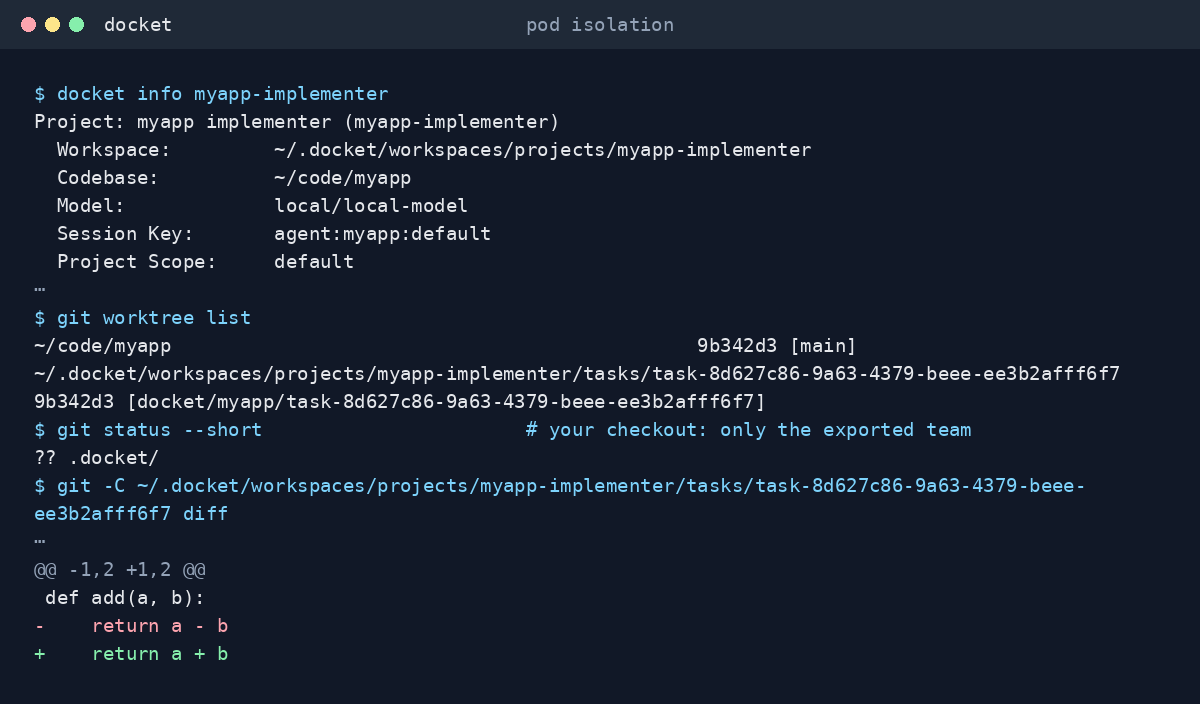
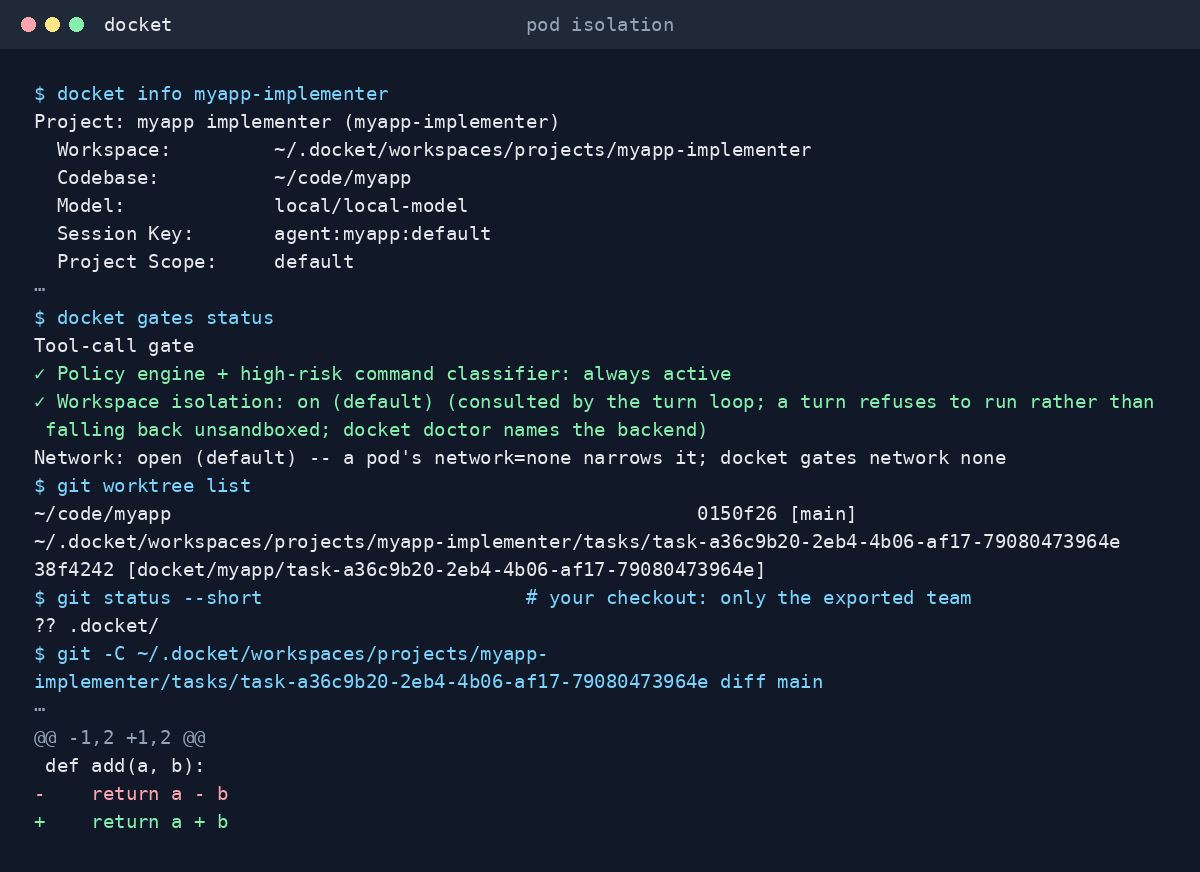
Docs: refresh the documentation screenshots from a 2026-10-05 capture
Re-captured the journey on current develop (after the consult-ask fix) with
the local model and transcribed it into the renderer, all scenes from one run.

- hero.gif: new task and trace ids and timestamps; the recipe now adds a
  security-review skill (5 changes); the exported tree is elided to fit; the
  run frame elides the vetter's bullet list and keeps APPROVE; the config
  explain frame lists the consult and skill tools and the audit chain
  verifies at 7 lines. The recipe path is shown as the shipped name.
- isolation.png: adds docket gates status, showing workspace isolation on by
  default, above the worktree facts; the fix is shown with diff main because
  the Implementer's change is committed on its task branch.
- governance.png: the Implementer's git push origin production parks the task
  as waiting_approval under high-risk-deploy; shows the tool.ask audit entry
  for bash and the trace denial with executed false, then audit verify.
- capture-doc-journey.sh: scene 3 also runs docket gates status and diffs
  against main; scene 4's task tells the Lead not to consult, so the push
  reaches the gate.
- docs/assets/README.md: capture date and scene table. README.md: alt text of
  isolation.png and governance.png match what they show.

diff --git a/scripts/render-doc-assets.py b/scripts/render-doc-assets.py
@@ -132,7 +132,6 @@ def _terminal(title: str, lines: list[str], *, height: int = HEIGHT) -> Image.Im
 # lines or path prefixes, and a trailing "# ..." on a "$" line is a reader's note, never
 # captured output.
 _TEAM = [
-    "$ docket models preset local",
     "$ docket init --recipe secure-build",
     "⋯",
     "→ Provisioning 'software' pod 'myapp' (lead, implementer)...",
@@ -141,17 +140,18 @@ _TEAM = [
     "Apply plan — myapp <- ⋯/templates/recipes/secure-build",
     "  [add] role: security-vetter",
     "  [add] policy: require-approval-secret-writes.yaml",
+    "  [add] skill: security-review",
     "  [add] member: security-vetter",
     "  [add] pipeline: pipeline.yaml",
-    "✓ Applied 4 change(s) to pod 'myapp' from ⋯/templates/recipes/secure-build.",
+    "✓ Applied 5 change(s) to pod 'myapp' from ⋯/templates/recipes/secure-build.",
     "$ docket pod myapp export                  # the team, written back next to the code",
     "✓ Exported pod 'myapp' to ~/code/myapp/.docket.",
     "$ find .docket -type f | sort",
     ".docket/pipeline.yaml",
     ".docket/pod.yaml",
     ".docket/policies/require-approval-secret-writes.yaml",
-    ".docket/roles/security-vetter.md",
     ".docket/roles/security-vetter.yaml",
+    "⋯",
 ]
 
 _PLAN = [
@@ -173,29 +173,27 @@ _PLAN = [
     "✓ Set verify command for myapp-implementer: "
     "\"python3 -c 'import calc; assert calc.add(2, 3) == 5'\"",
     '$ docket pod myapp delegate "Fix calc.add so it returns the sum of a and b"',
-    "✓ Queued for pod 'myapp': [task-efbd46e7-d7ce-4f7a-b787-d6c8abfd3cf6] Fix calc.add so it "
+    "✓ Queued for pod 'myapp': [task-a36c9b20-2eb4-4b06-af17-79080473964e] Fix calc.add so it "
     "returns the sum of a and b",
 ]
 
 _DISPATCH = [
     "$ docket pod myapp dispatch",
     "→ Dispatching 1 pending task(s) through: lead → implementer → security-vetter",
-    "✓   [task-efbd46e7-d7ce-4f7a-b787-d6c8abfd3cf6] done — 3 hop(s), $0.0000",
-    "$ docket trace agent:myapp:task-efbd46e7-d7ce-4f7a-b787-d6c8abfd3cf6",
-    "  2026-09-27T19:47:54  session_start              (lead)",
+    "✓   [task-a36c9b20-2eb4-4b06-af17-79080473964e] done — 3 hop(s), $0.0000",
+    "$ docket trace agent:myapp:task-a36c9b20-2eb4-4b06-af17-79080473964e",
+    "  2026-10-05T15:08:52  session_start              (lead)",
     "  ⋯",
-    "  2026-09-27T19:48:19  tool_result                (lead)  text=## Plan for Implementer",
+    "  2026-10-05T15:09:32  tool_result                (lead)  text=Found the bug. `calc.add` "
+    "subtracts `b` from `a` instead of adding them. Now I'll dispatch to the Implementer.",
     "  ⋯",
-    "  2026-09-27T19:48:50  tool_result                (implementer)  text=The fix is complete. "
-    "I changed `calc.add` to return `a + b` instead of `a - b`. The verification gate passes",
+    "  2026-10-05T15:10:51  tool_result                (implementer)  text=`<promise>DONE</promise>`",
     "  ⋯",
-    "  2026-09-27T19:49:07  tool_result                (security-vetter)  text=The `calc.py` "
-    "file now correctly implements `add` with `return a + b`.",
-    "⋯",
-    "- **Secrets:** No credentials or secrets in the file.",
+    "  2026-10-05T15:12:01  tool_result                (security-vetter)  text=**Security Review "
+    "Report — calc.add fix**",
     "⋯",
     "APPROVE",
-    "  2026-09-27T19:49:07  session_end                (lead)  status=done",
+    "  2026-10-05T15:12:01  session_end                (lead)  status=done",
 ]
 
 _RECORD = [
@@ -208,15 +206,17 @@ _RECORD = [
     "  Provider:        local  (global, openai-chat)",
     "  Credential:      (none)  (none)",
     "⋯",
-    "  Tools allowed: bash, edit, fetch, glob, grep, read, write",
+    "  Tools allowed: bash, consult, edit, fetch, glob, grep, read, skill, write",
     "⋯",
     "│ secure-build-secret-writes │ pre_tool_call │ require_approval │",
     "⋯",
     "  Pipeline:        bound pipeline (hash 45f7aaf31d1f...)",
-    "  Config source:   ⋯/templates/recipes/secure-build  (digest 441848f22bd2..., drift: no)",
+    "  Skills:          security-review (codebase)",
+    "⋯",
+    "  Config source:   ⋯/templates/recipes/secure-build  (digest ec69082e5924..., drift: no)",
     "⋯",
     "$ docket audit verify",
-    "✓ 8 chained line(s) verified clean.",
+    "✓ 7 chained line(s) verified clean.",
 ]
 
 _ISOLATION = [
@@ -228,13 +228,19 @@ _ISOLATION = [
     "  Session Key:       agent:myapp:default",
     "  Project Scope:     default",
     "⋯",
+    "$ docket gates status",
+    "Tool-call gate",
+    "✓ Policy engine + high-risk command classifier: always active",
+    "✓ Workspace isolation: on (default) (consulted by the turn loop; a turn refuses to run rather "
+    "than falling back unsandboxed; docket doctor names the backend)",
+    "Network: open (default) -- a pod's network=none narrows it; docket gates network none",
     "$ git worktree list",
-    "~/code/myapp                                              9b342d3 [main]",
-    "~/.docket/workspaces/projects/myapp-implementer/tasks/task-8d627c86-9a63-4379-beee-ee3b2afff6f7  9b342d3 "
-    "[docket/myapp/task-8d627c86-9a63-4379-beee-ee3b2afff6f7]",
+    "~/code/myapp                                              0150f26 [main]",
+    "~/.docket/workspaces/projects/myapp-implementer/tasks/task-a36c9b20-2eb4-4b06-af17-79080473964e  "
+    "38f4242 [docket/myapp/task-a36c9b20-2eb4-4b06-af17-79080473964e]",
     "$ git status --short                       # your checkout: only the exported team",
     "?? .docket/",
-    "$ git -C ~/.docket/workspaces/projects/myapp-implementer/tasks/task-8d627c86-9a63-4379-beee-ee3b2afff6f7 diff",
+    "$ git -C ~/.docket/workspaces/projects/myapp-implementer/tasks/task-a36c9b20-2eb4-4b06-af17-79080473964e diff main",
     "⋯",
     "@@ -1,2 +1,2 @@",
     " def add(a, b):",
@@ -248,19 +254,23 @@ _GATE = [
     "  Reason: matches high-risk action class 'prod-deploy': Production deploys and release pushes",
     "  Policy: 'high-risk-deploy' -> require_approval",
     "$ docket pod myapp delegate \\",
-    '    "Publish the fix: run exactly this bash command once and report its output: '
-    'git push origin production"',
+    '    "Publish the fix. Lead: never call the consult tool and do not ask questions, the '
+    "operator already decided; hand this to the implementer as is. Implementer: run exactly this "
+    'bash command once and report its output: git push origin production"',
     "$ docket pod myapp dispatch",
     "→ Dispatching 1 pending task(s) through: lead → implementer → security-vetter",
-    "✓   [task-d4f97e63-0842-4c79-9e44-5e1df1318f8b] done — 3 hop(s), $0.0000",
+    "⚠   [task-31f81c52-d1fd-481d-a679-6e315a587197] waiting_approval — implementer hop parked "
+    "for approval (token=apr-12f07fc8-d922-4958-9738-8bab58932c2e)",
     "$ docket audit",
     "  ⋯",
-    "  2026-09-27T19:49:30.146Z  demo        tool.ask          tool=bash agent=myapp-implementer "
+    "  2026-10-05T15:12:49.964Z  demo        tool.ask          tool=bash agent=myapp-implementer "
     "role=implementer project=myapp policy_id='high-risk-deploy' policy_action='require_approval' ⋯",
-    "  2026-09-27T19:51:30.180Z  demo        approval.deny     "
-    "token=apr-e480b929-4092-47c7-a541-4137f438098d project=myapp channel=timeout",
+    "$ docket trace export myapp | grep '\"deny\"'",
+    '{"ts": "2026-10-05T15:12:49Z", "project": "myapp", ⋯ "agent_role": "implementer", ⋯ '
+    '"tool": "bash", ⋯ "decision": "deny", "ok": false, "executed": false, "denialKind": '
+    '"approval_parked", "policyId": "high-risk-deploy", ⋯}}',
     "$ docket audit verify",
-    "✓ 8 chained line(s) verified clean.",
+    "✓ 7 chained line(s) verified clean.",
 ]
 
 

diff --git a/docs/assets/README.md b/docs/assets/README.md
@@ -7,8 +7,8 @@ real run; there are no terminal screenshots and no invented output.
 | File | Purpose | Captured scene | Used in |
 | --- | --- | --- | --- |
 | `hero.gif` | Four frames: provision the team from a shipped recipe and write it back to `.docket/`; validate, plan and queue; dispatch to `done` through Lead, Implementer and the read-only vetter's `APPROVE`; the record (`config explain` with the team's source and `audit verify`) | `1-team`, `2-dispatch`, `5-record` | Root README and docs index |
-| `isolation.png` | The Implementer's own workspace and git worktree; the operator's checkout holds only the exported team | `3-isolation` | Root README |
-| `governance.png` | A high-risk `bash` call held for approval, denied on timeout without executing, and the audit chain verified | `4-gate` | Root README |
+| `isolation.png` | The Implementer's own workspace and git worktree, with `docket gates status` showing workspace isolation on by default; the operator's checkout holds only the exported team | `3-isolation` | Root README |
+| `governance.png` | The policy dry-run asks for a high-risk push; the Implementer's `bash` call parks the task as `waiting_approval` under `high-risk-deploy`, the audit logs `tool.ask`, the trace records the denial with `executed: false`, and the audit chain verifies | `4-gate` | Root README |
 
 The renderer uses the vendored `DejaVuSansMono.ttf` so glyphs and layout do not depend on host font
 packages. Its redistribution terms are retained in `DejaVu-FONT-LICENSE.txt`. The font is a source
@@ -22,7 +22,7 @@ real CLI through every scene against a live OpenAI-compatible endpoint (default
 capture root rendered as `~`. It takes about five minutes because the gate scene waits out the
 120-second approval timeout. A local model's output varies run to run, so copy what the new run
 actually printed into the scene lists in the renderer: elide with `⋯`, never reword or invent a
-line. The current scenes were captured on 2026-09-27 against a local 16k-context model (the `6-harness` transcript is captured but not rendered).
+line. The current scenes were captured on 2026-10-05 against a local 16k-context model (the `6-harness` transcript is captured but not rendered).
 
 ## Regenerate and verify
 

diff --git a/README.md b/README.md
@@ -89,7 +89,7 @@ What follows explains that dispatch, what held it in check, and then how to chan
 ## The run
 
 <p align="center">
-  <img src="docs/assets/isolation.png" alt="Real terminal output: the Implementer's dedicated workspace, codebase and session key, a separate git worktree on its own branch, a clean main checkout, and the one-line fix living only in the worktree" width="820">
+  <img src="docs/assets/isolation.png" alt="Real terminal output: the Implementer's dedicated workspace, codebase and session key, a separate git worktree on its own branch, isolation on, a clean main checkout, and the one-line fix living only in the worktree" width="820">
 </p>
 
 `dispatch` takes the next queued task through the team's pipeline, one real model turn per step. The
@@ -110,7 +110,7 @@ still varies run to run; a 16k-context endpoint is the honest integration test.
 ## The gate and the record
 
 <p align="center">
-  <img src="docs/assets/governance.png" alt="Real terminal output: an Implementer's git push origin production is held for approval by the high-risk-deploy policy, nobody answers, and the call is denied on timeout without executing; the audit chain then verifies clean" width="820">
+  <img src="docs/assets/governance.png" alt="Real terminal output: an Implementer's git push origin production is held for approval by the high-risk-deploy policy, the hop parks for approval and nothing executes; the audit chain then verifies clean" width="820">
 </p>
 
 Every tool call, built-in or MCP, passes one chokepoint: policy, then a classifier that reads the
